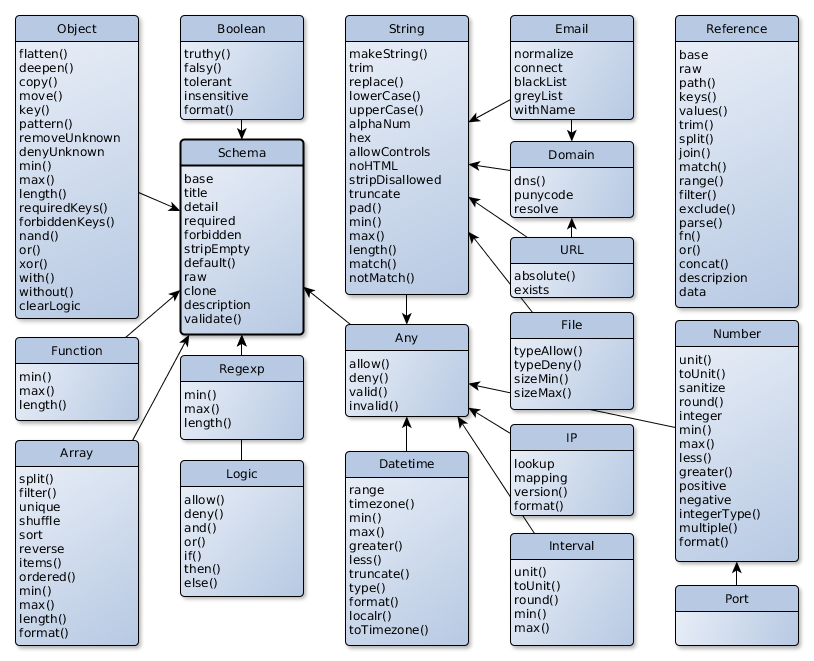
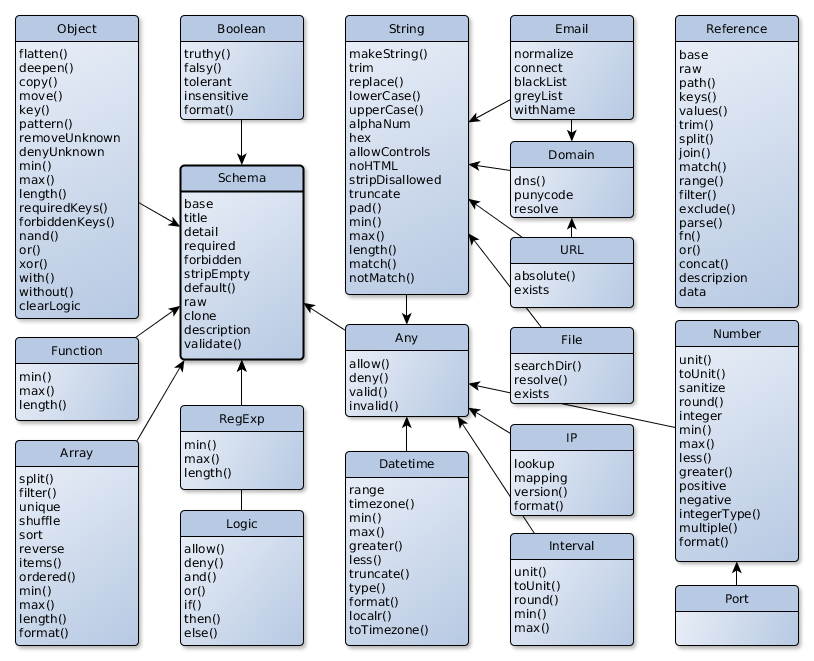
Start file checks

diff --git a/src/type/File.js b/src/type/File.js
@@ -1,0 +1,159 @@
+// @flow
+import url from 'url'
+
+// load on demand: request-promise-native, dns, net
+
+import StringSchema from './String'
+import DomainSchema from './Domain'
+import ValidationError from '../Error'
+import type Data from '../Data'
+import Reference from '../Reference'
+
+
+class FileSchema extends StringSchema {
+  constructor(base?: any) {
+    super(base)
+    // add check rules
+    let raw = this._rules.descriptor.pop()
+    let allow = this._rules.descriptor.pop()
+    this._rules.descriptor.push(
+      //      this._searchDescriptor,
+      //      this._resolveDescriptor,
+      allow,
+      //      this._existsDescriptor,
+      raw,
+    )
+    raw = this._rules.validator.pop()
+    allow = this._rules.validator.pop()
+    this._rules.validator.push(
+      //      this._searchValidator,
+      //      this._resolveValidator,
+      allow,
+      //      this._existsValidator,
+      raw,
+    )
+  }
+
+  stripEmpty(): this { return this._setError('stripEmpty') }
+  truncate(): this { return this._setError('truncate') }
+  pad(): this { return this._setError('pad') }
+
+  _typeDescriptor() { // eslint-disable-line class-methods-use-this
+    return 'It has to be a valid file or directory location.\n'
+  }
+
+  _searchDescriptor() {
+    const set = this._setting
+    const schema = new DomainSchema()
+    if (set.dns) schema.dns()
+    return `- domain part: ${schema.description}\n\n`
+  }
+
+  _searchValidator(data: Data): Promise<void> {
+    const check = this._check
+    // split address
+    data.value = url.parse(data.value)
+    // check domain
+    const schema = new DomainSchema().raw()
+    if (check.dns) schema.dns()
+    return schema._validate(data.sub('host'))
+  }
+
+  resolve(base?: string | Reference): this { return this._setAny('resolve', base) }
+
+  _resolveDescriptor() {
+    const set = this._setting
+    let msg = ''
+    if (set.resolve) {
+      if (this._isReference('resolve')) {
+        msg += `A relative address is based on the address defined under \
+${set.resolve.description}. `
+      } else msg += `A relative address is based on ${set.resolve}. `
+    }
+    return msg.length ? `${msg.trim()}\n` : msg
+  }
+
+  _resolveValidator(data: Data): Promise<void> {
+    const check = this._check
+    try {
+      this._checkString('resolve')
+    } catch (err) {
+      return Promise.reject(new ValidationError(this, data, err.message))
+    }
+    // format
+    if (check.resolve) data.value = url.resolve(check.resolve, data.value)
+    return Promise.resolve()
+  }
+
+  _allowValidator(data: Data): Promise<void> {
+    const check = this._check
+    this._checkArrayString('allow')
+    this._checkArrayString('deny')
+    // checking
+    if (check.deny && check.deny.length) {
+      // get lists
+      const list = check.deny.map(e => url.parse(e))
+      const protocol = list.map(e => e.protocol)
+        .filter(e => e && e.length && data.value.protocol === e)
+      const host = list.map(e => e.host)
+        .filter(e => e && e.length && data.value.host === e)
+      const hostname = list.map(e => e.hostname)
+        .filter(e => e && e.length && data.value.hostname === e)
+      const path = list.map(e => e.path)
+        .filter(e => e && e.length && data.value.path.includes(e))
+      if (protocol.length || hostname.length || host.length || path.length) {
+        return Promise.reject(new ValidationError(this, data,
+          'URL found in blacklist (denied item).'))
+      }
+    }
+    if (check.allow && check.allow.length) {
+      // get lists
+      const list = check.allow.map(e => url.parse(e))
+      const protocol = list.map(e => e.protocol)
+        .filter(e => !e || !e.length || data.value.protocol === e)
+      const host = list.map(e => e.host)
+        .filter(e => !e || !e.length || data.value.host === e)
+      const hostname = list.map(e => e.hostname)
+        .filter(e => !e || !e.length || data.value.hostname === e)
+      const path = list.map(e => e.path)
+        .filter(e => !e || !e.length || data.value.path.includes(e))
+      if (!protocol.length || !hostname.length || !host.length || !path.length) {
+        return Promise.reject(new ValidationError(this, data,
+          'URL not found in whitelist (allowed item).'))
+      }
+    }
+    return Promise.resolve()
+  }
+
+  exists(flag?: bool | Reference): this { return this._setFlag('exists', flag) }
+
+  _existsDescriptor() {
+    const set = this._setting
+    let msg = ''
+    if (set.exists) {
+      if (this._isReference('exists')) {
+        msg += `The URL have to exist and be accessible if defined under \
+${set.exists.description}. `
+      } else msg += 'The URL have to exist and be accessible. '
+    }
+    return msg.length ? `${msg.trim()}\n` : msg
+  }
+
+  _existsValidator(data: Data): Promise<void> {
+    const check = this._check
+    try {
+      this._checkBoolean('exists')
+    } catch (err) {
+      return Promise.reject(new ValidationError(this, data, err.message))
+    }
+    // format
+    if (check.exists) {
+      return import('request-promise-native')
+        .then((request: any) => request(data.value.href))
+    }
+    return Promise.resolve()
+  }
+}
+
+
+export default FileSchema

diff --git a/test/mocha/type/file.js b/test/mocha/type/file.js
@@ -1,0 +1,36 @@
+// @flow
+import chai from 'chai'
+
+import Reference from '../../../src/Reference'
+import FileSchema from '../../../src/type/File'
+import Schema from '../../../src/type/Schema'
+import * as helper from '../helper'
+
+const expect = chai.expect
+
+// to simplify copy and paste in other Schemas
+const MySchema = FileSchema
+
+describe.only('file', () => {
+
+  describe('simple', () => {
+
+    it('should work', () => {
+      const data = 'http://alinex.github.io'
+      const schema = new MySchema()
+      expect(schema).to.be.an('object')
+      // use schema
+      return helper.validateOk(schema, data, (res) => {
+        expect(res).deep.equal(data)
+      })
+    })
+
+    it('should describe', () => {
+      const schema = new MySchema()
+      // use schema
+      expect(helper.description(schema)).to.be.a('string')
+    })
+
+  })
+
+})

diff --git a/src/builder.js b/src/builder.js
@@ -7,6 +7,7 @@ export { default as Boolean } from './type/Boolean'
 export { default as Date } from './type/Date'
 export { default as Domain } from './type/Domain'
 export { default as Email } from './type/Email'
+export { default as File } from './type/File'
 export { default as Function } from './type/Function'
 export { default as IP } from './type/IP'
 export { default as Logic } from './type/Logic'

diff --git a/test/mocha/type/regexp.js b/test/mocha/type/regexp.js
@@ -10,7 +10,7 @@ const expect = chai.expect
 // to simplify copy and paste in other Schemas
 const MySchema = RegExpSchema
 
-describe.only('regexp', () => {
+describe('regexp', () => {
 
   it('should work with object', () => {
     const data = /abc/

diff --git a/doc/schema/file.md b/doc/schema/file.md
@@ -1,0 +1,61 @@
+# File Schema
+
+The value has to a valid URL address.
+
+This is a specialization of the `AnySchema` the methods used there are used in the same way as in [Any Schema](any.md):
+- `title()`
+- `detail()`
+- `required()`
+- `forbidden()`
+- `default()`
+- `stripEmpty()`
+- `raw()`
+
+And the methods from [String Schema](string.md):
+- `makeString()`
+- `trim`
+- `replace()`
+- `lowerCase()`
+- `upperCase()`
+- `alphaNum`
+- `hex`
+- `allowControls`
+- `noHTML`
+- `stripDisallowed`
+- `min()`
+- `max()`
+- `length()`
+- `match()`
+- `notMatch()`
+
+
+## Checking
+
+### allow(list) / deny(list)
+
+In principal this is identical to the any type and also `valid(item)` and `invalid(item)` may be used
+but the matching is a way complexer.
+
+You can give
+- protocol - `http:`
+- protocol with host - `http://alinex.de`
+- path - `/index.html`
+- complete url
+
+### resolve(base)
+
+For relative URLs this gives a base to resolve them to a full URL.
+
+```js
+const schema = new URLSchema().resolve('https://alinex.github.io')
+schema.resolve() // to remove settings
+```
+
+### exists
+
+Check if the URL really exists and is accessible.
+
+```js
+const schema = new URLSchema().exists()
+schema.exists() // to remove settings
+```

diff --git a/doc/ideas.md b/doc/ideas.md
@@ -20,7 +20,12 @@ Number
 - locale support parse/format
 
 File
-- min/max/greater/less as filesize (validatorjs)
+1- searchDir()
+2- resolve(dir) // was basedir()
+5- filetype
+4- allow/deny extension/file/path
+6- min/max/greater/less as filesize (validatorjs)
+3- exists
 
 Specific Types
 - handlebars (v2)

diff --git a/doc/SUMMARY.md b/doc/SUMMARY.md
@@ -18,6 +18,7 @@
   - [Extensions](schema/extensions.md)
     - [Domain](schema/domain.md)
     - [Email](schema/email.md)
+    - [File](schema/file.md)
     - [IP](schema/ip.md)
     - [Port](schema/port.md)
     - [RegExp](schema/regexp.md)
